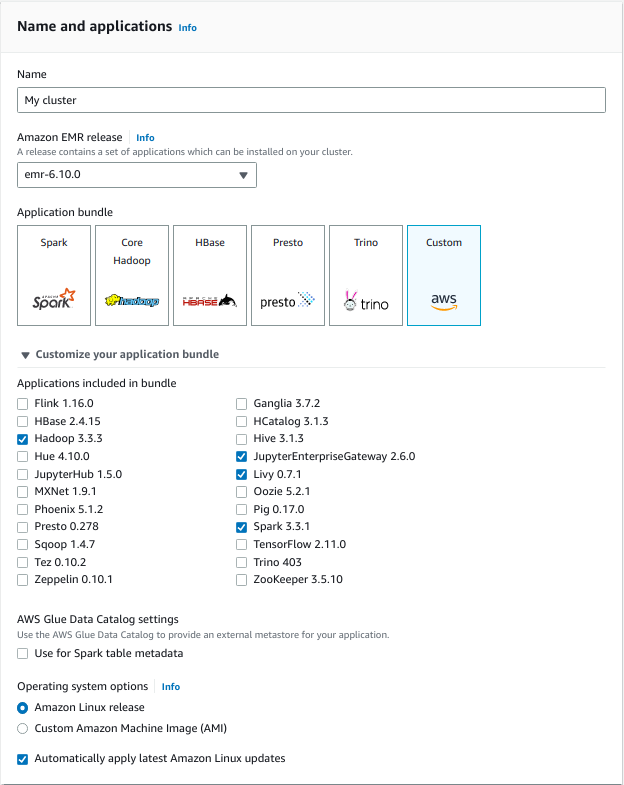
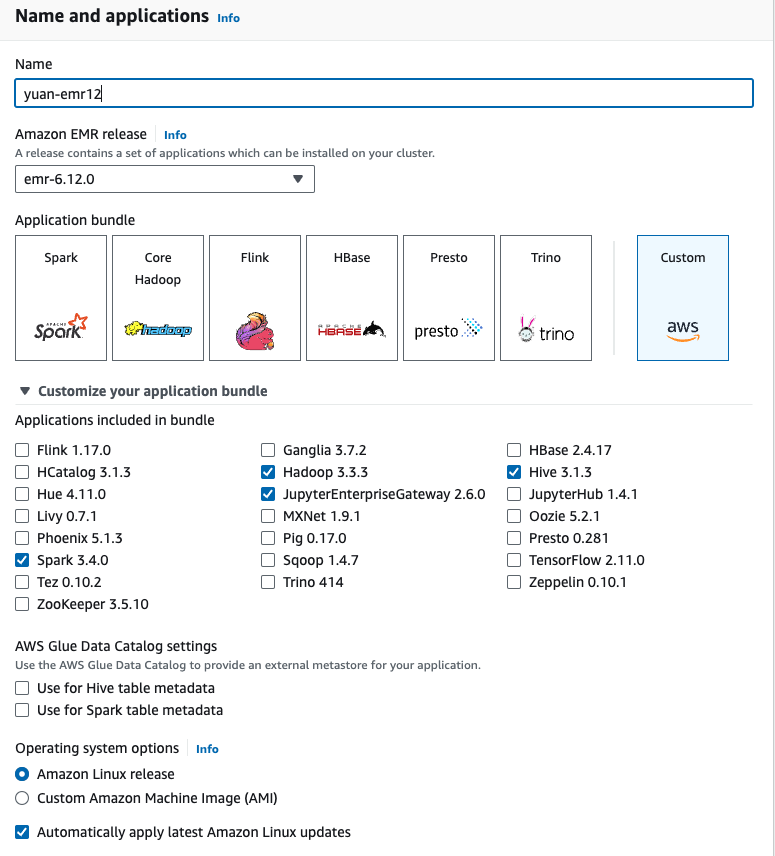
update the emr getting started doc for emr-6120 release

Changed region(s): [[0.0, 0.0, 0.9744, 1.0], [0.8526, 0.3669, 0.9135, 0.3975], [0.8526, 0.2752, 0.9135, 0.3057]]

diff --git a/docs/get-started/getting-started-aws-emr.md b/docs/get-started/getting-started-aws-emr.md
@@ -13,6 +13,8 @@ Different versions of EMR ship with different versions of Spark, RAPIDS Accelera
 
 | EMR | Spark | RAPIDS Accelerator jar | cuDF jar | xgboost4j-spark jar
 | --- | --- | --- | ---| --- |
+| 6.12 | 3.4.0 | rapids-4-spark_2.12-23.06.0-amzn-0.jar | Bundled with rapids-4-spark | xgboost4j-spark_3.0-1.4.2-0.3.0.jar |
+| 6.11 | 3.3.2 | rapids-4-spark_2.12-23.02.0-amzn-0.jar | Bundled with rapids-4-spark | xgboost4j-spark_3.0-1.4.2-0.3.0.jar |
 | 6.10 | 3.3.1 | rapids-4-spark_2.12-22.12.0.jar | Bundled with rapids-4-spark | xgboost4j-spark_3.0-1.4.2-0.3.0.jar |
 | 6.9 | 3.3.0 | rapids-4-spark_2.12-22.08.0.jar | Bundled with rapids-4-spark | xgboost4j-spark_3.0-1.4.2-0.3.0.jar |
 | 6.8 | 3.3.0 | rapids-4-spark_2.12-22.06.0.jar | Bundled with rapids-4-spark | xgboost4j-spark_3.0-1.4.2-0.3.0.jar |
@@ -86,8 +88,8 @@ top right corner. Click `Create cluster`, which will bring up a detailed cluster
 
 Enter a custom "Cluster name" for your cluster.
 
-Select **emr-6.10.0** for the release and pick "Custom" for the "Application bundle". Unncheck all the 
-software options, and then check **Hadoop 3.3.3**, **Spark 3.3.1**, **Livy 0.7.1** and 
+Select **emr-6.12.0** for the release and pick "Custom" for the "Application bundle". Uncheck all the 
+software options, and then check **Hadoop 3.3.3**, **Spark 3.4.0**, **Livy 0.7.1** and 
 **JupyterEnterpriseGateway 2.6.0**.
 
 Optionally pick Amazon Linux Release or configure a "Custom AMI".
@@ -260,7 +262,7 @@ You will need:
 
 ```bash
 aws emr create-cluster \
---release-label emr-6.10.0 \
+--release-label emr-6.12.0 \
 --applications Name=Hadoop Name=Spark Name=Livy Name=JupyterEnterpriseGateway \
 --service-role DemoServiceRole \
 --ec2-attributes KeyName=demo-key-pair,SubnetId=demo-subnet,InstanceProfile=DemoInstanceProfile \
